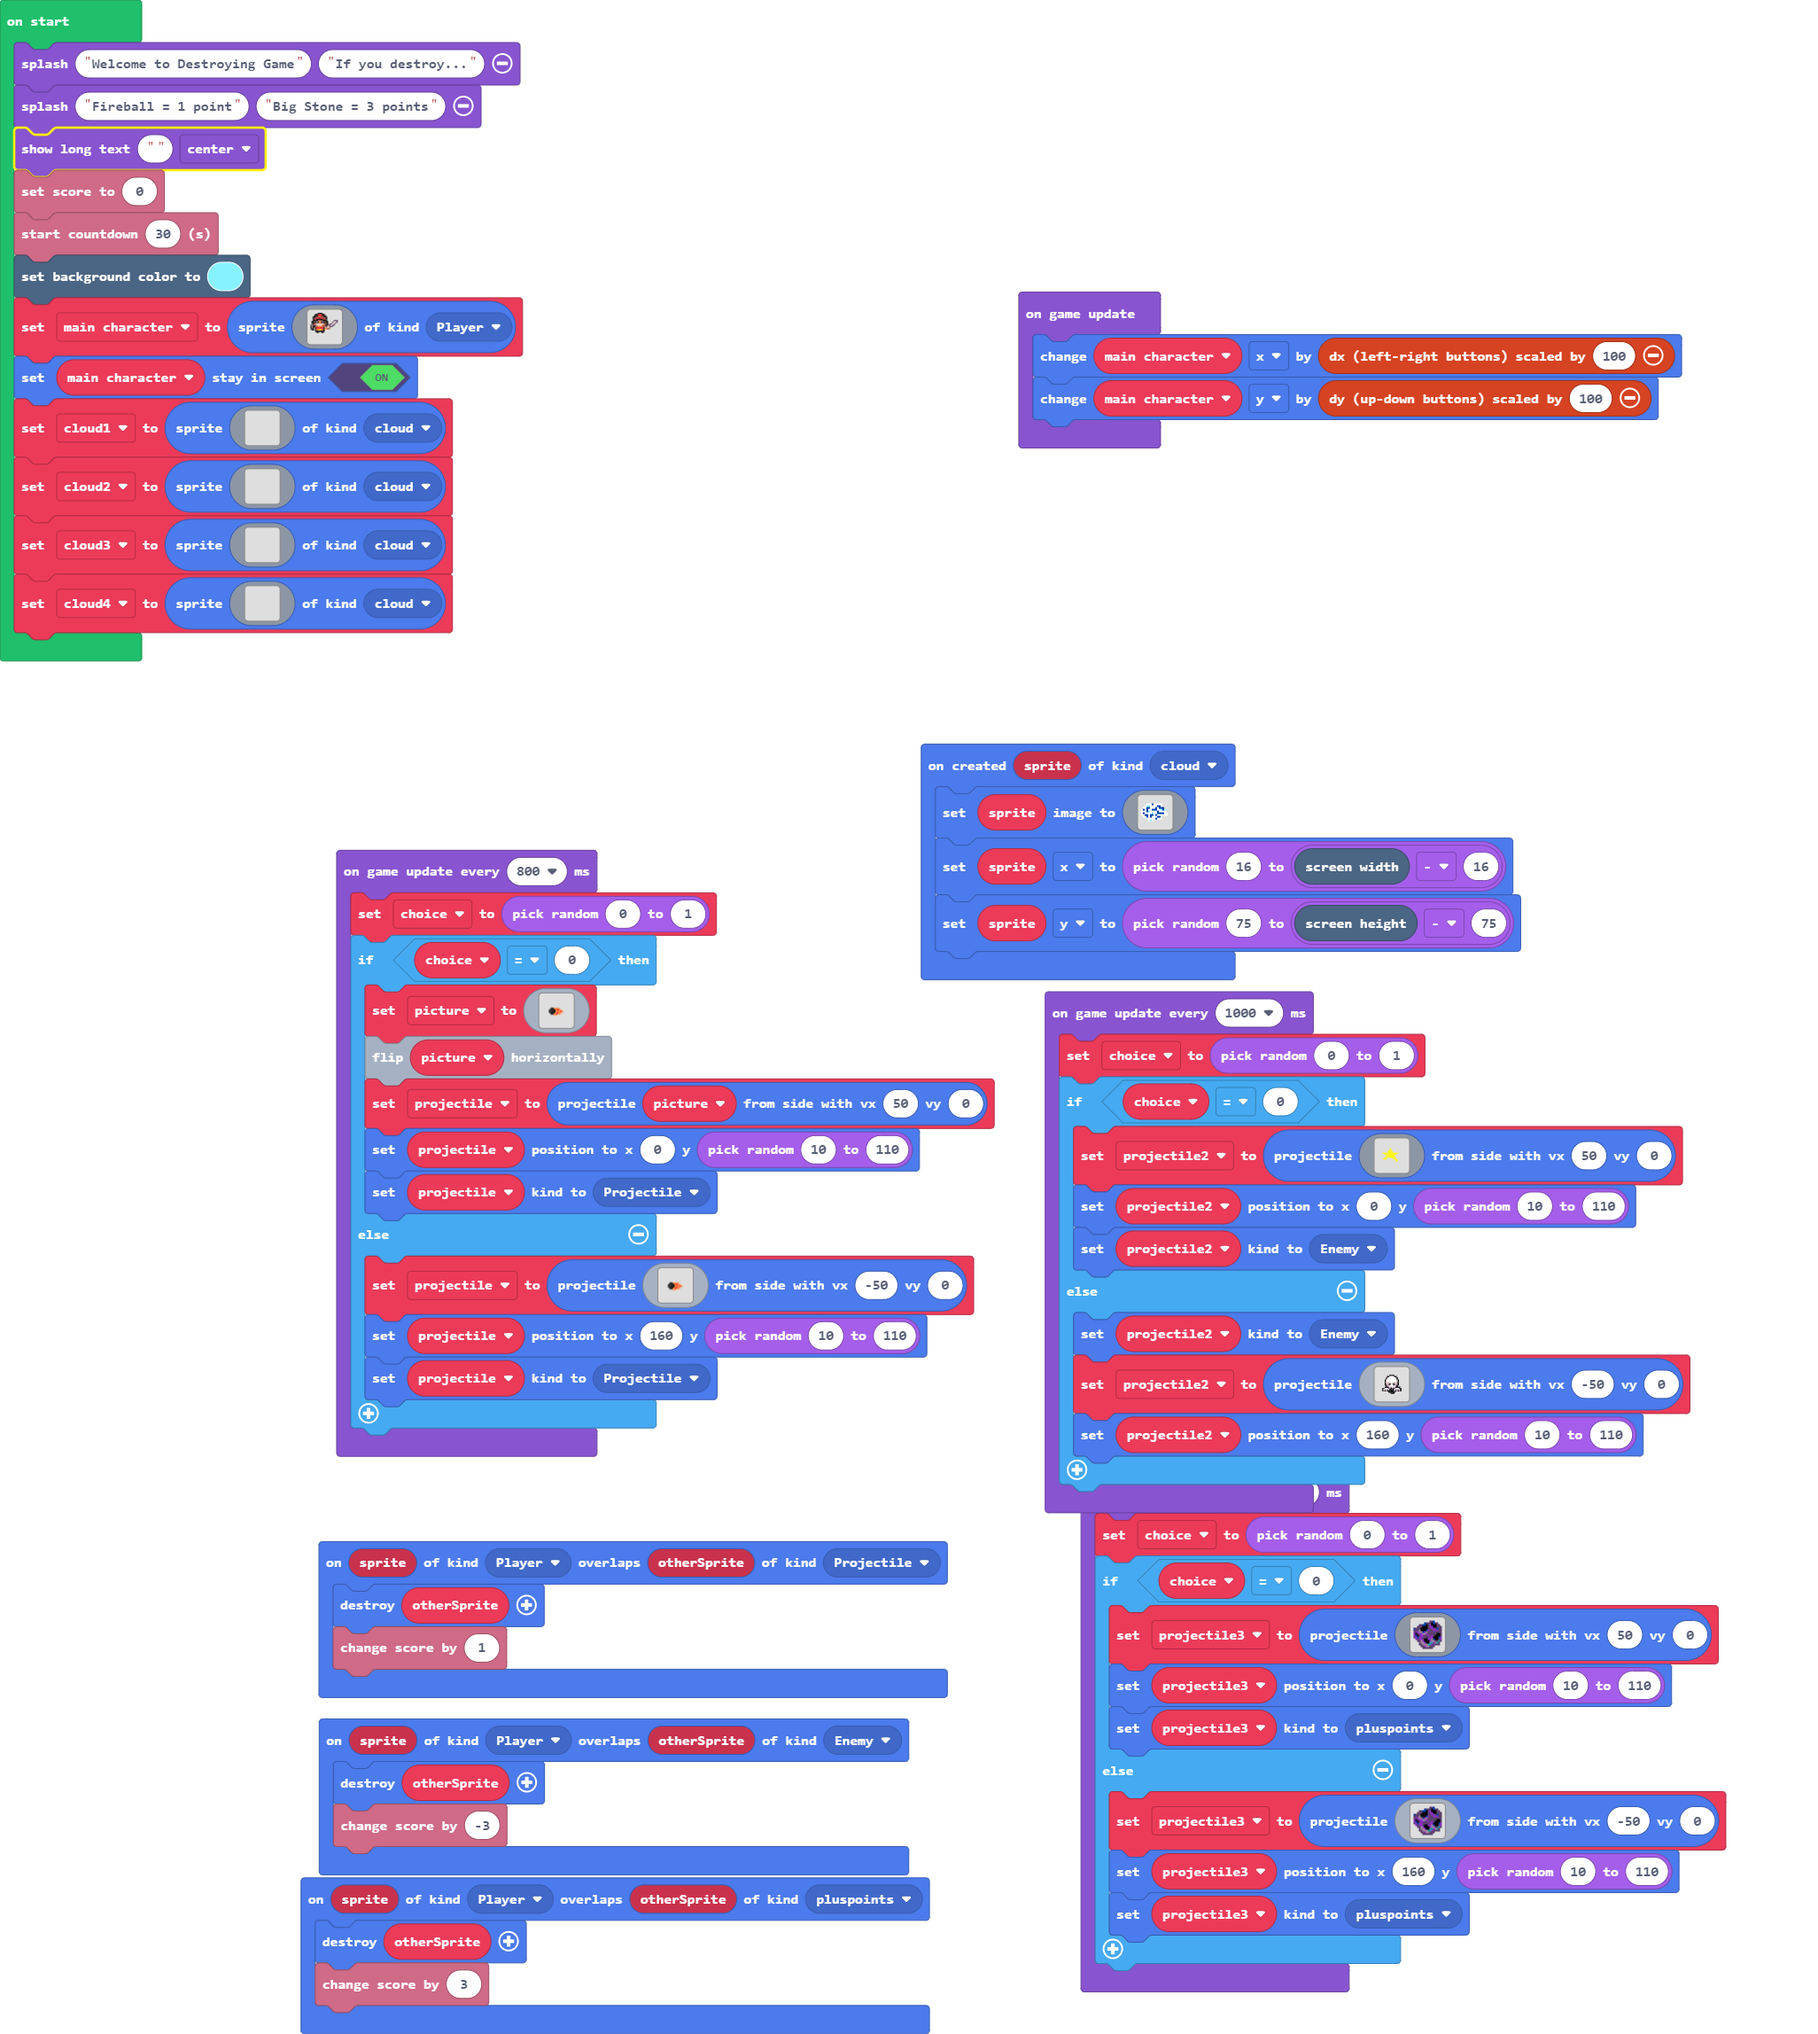
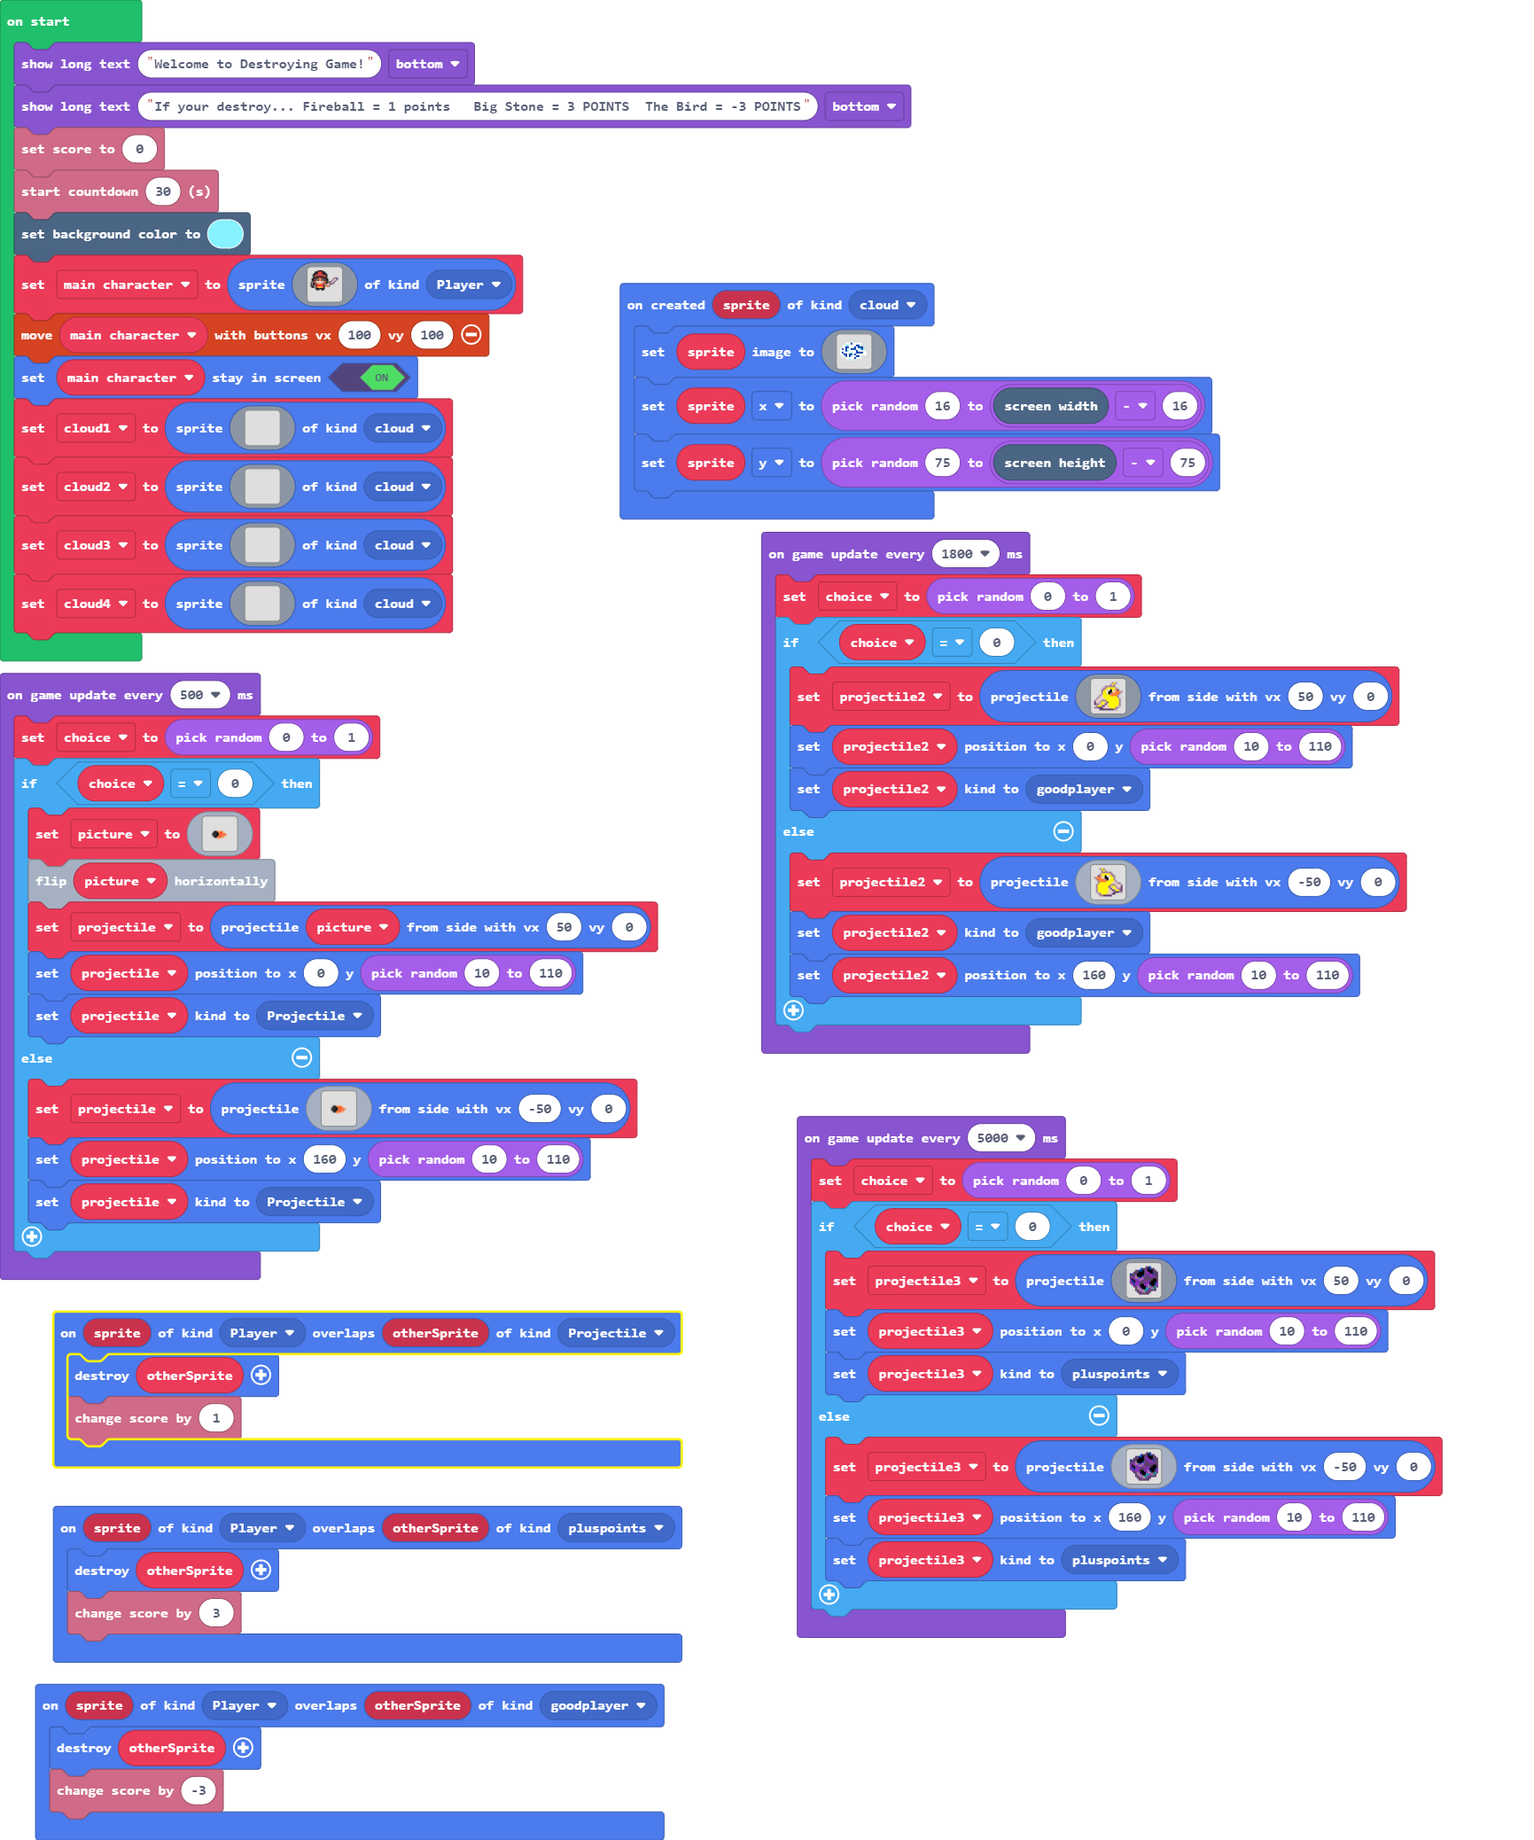
Final Touches

diff --git a/main.ts b/main.ts
@@ -5,7 +5,12 @@ namespace SpriteKind {
     export const bird = SpriteKind.create()
     export const dead = SpriteKind.create()
     export const pluspoints = SpriteKind.create()
+    export const goodplayer = SpriteKind.create()
 }
+sprites.onOverlap(SpriteKind.Player, SpriteKind.goodplayer, function (sprite, otherSprite) {
+    otherSprite.destroy()
+    info.changeScoreBy(-3)
+})
 sprites.onOverlap(SpriteKind.Player, SpriteKind.Projectile, function (sprite, otherSprite) {
     otherSprite.destroy()
     info.changeScoreBy(1)
@@ -36,18 +41,13 @@ sprites.onOverlap(SpriteKind.Player, SpriteKind.pluspoints, function (sprite, ot
     otherSprite.destroy()
     info.changeScoreBy(3)
 })
-sprites.onOverlap(SpriteKind.Player, SpriteKind.Enemy, function (sprite, otherSprite) {
-    otherSprite.destroy()
-    info.changeScoreBy(-3)
-})
 let projectile: Sprite = null
 let picture: Image = null
 let projectile2: Sprite = null
 let projectile3: Sprite = null
 let choice = 0
-game.splash("Welcome to Destroying Game", "If you destroy...")
-game.splash("Fireball = 1 point", "Big Stone = 3 points")
-game.showLongText("", DialogLayout.Center)
+game.showLongText("Welcome to Destroying Game!", DialogLayout.Bottom)
+game.showLongText("If your destroy... Fireball = 1 points   Big Stone = 3 POINTS  The Bird = -3 POINTS", DialogLayout.Bottom)
 info.setScore(0)
 info.startCountdown(30)
 scene.setBackgroundColor(9)
@@ -77,6 +77,7 @@ let main_character = sprites.create(img`
     ........................
     ........................
     `, SpriteKind.Player)
+controller.moveSprite(main_character, 100, 100)
 main_character.setStayInScreen(true)
 let cloud1 = sprites.create(img`
     . . . . . . . . . . . . . . . . 
@@ -150,10 +151,6 @@ let cloud4 = sprites.create(img`
     . . . . . . . . . . . . . . . . 
     . . . . . . . . . . . . . . . . 
     `, SpriteKind.cloud)
-game.onUpdate(function () {
-    main_character.x += controller.dx(100)
-    main_character.y += controller.dy(100)
-})
 game.onUpdateInterval(5000, function () {
     choice = randint(0, 1)
     if (choice == 0) {
@@ -200,75 +197,53 @@ game.onUpdateInterval(5000, function () {
         projectile3.setKind(SpriteKind.pluspoints)
     }
 })
-game.onUpdateInterval(1000, function () {
+game.onUpdateInterval(1800, function () {
     choice = randint(0, 1)
     if (choice == 0) {
         projectile2 = sprites.createProjectileFromSide(img`
-            ..............................
-            ..............................
-            ..............................
-            ..............................
-            ..............................
-            ..............................
-            ..............................
-            .............5................
-            .............55...............
-            ............555...............
-            ...........55555..............
-            ...........55555..............
-            .....55555555555555555........
-            .......5555555555555..........
-            .........555555555............
-            .........555555555............
-            ........55555555555...........
-            .......555.....5555...........
-            ......555........555..........
-            ...................55.........
-            ...................55.........
-            ..............................
-            ..............................
-            ..............................
-            ..............................
-            ..............................
-            ..............................
-            ..............................
-            ..............................
-            ..............................
+            . . . . . . . . . . b 5 b . . . 
+            . . . . . . . . . b 5 b . . . . 
+            . . . . . . b b b b b b . . . . 
+            . . . . . b b 5 5 5 5 5 b . . . 
+            . . . . b b 5 d 1 f 5 d 4 c . . 
+            . . . . b 5 5 1 f f d d 4 4 4 b 
+            . . . . b 5 5 d f b 4 4 4 4 b . 
+            . . . b d 5 5 5 5 4 4 4 4 b . . 
+            . . b d d 5 5 5 5 5 5 5 5 b . . 
+            . b d d d d 5 5 5 5 5 5 5 5 b . 
+            b d d d b b b 5 5 5 5 5 5 5 b . 
+            c d d b 5 5 d c 5 5 5 5 5 5 b . 
+            c b b d 5 d c d 5 5 5 5 5 5 b . 
+            . b 5 5 b c d d 5 5 5 5 5 d b . 
+            b b c c c d d d d 5 5 5 b b . . 
+            . . . c c c c c c c c b b . . . 
             `, 50, 0)
         projectile2.setPosition(0, randint(10, 110))
-        projectile2.setKind(SpriteKind.Enemy)
+        projectile2.setKind(SpriteKind.goodplayer)
     } else {
-        projectile2.setKind(SpriteKind.Enemy)
         projectile2 = sprites.createProjectileFromSide(img`
-            ........................
-            ........................
-            ........................
-            ........................
-            ..........ffff..........
-            ........ff1111ff........
-            .......fb111111bf.......
-            .......f11111111f.......
-            ......fd11111111df......
-            ......fd11111111df......
-            ......fddd1111dddf......
-            ......fbdbfddfbdbf......
-            ......fcdcf11fcdcf......
-            .......fb111111bf.......
-            ......fffcdb1bdffff.....
-            ....fc111cbfbfc111cf....
-            ....f1b1b1ffff1b1b1f....
-            ....fbfbffffffbfbfbf....
-            .........ffffff.........
-            ...........fff..........
-            ........................
-            ........................
-            ........................
-            ........................
+            . . . b 5 b . . . . . . . . . . 
+            . . . . b 5 b . . . . . . . . . 
+            . . . . b b b b b b . . . . . . 
+            . . . b 5 5 5 5 5 b b . . . . . 
+            . . c 4 d 5 f 1 d 5 b b . . . . 
+            b 4 4 4 d d f f 1 5 5 b . . . . 
+            . b 4 4 4 4 b f d 5 5 b . . . . 
+            . . b 4 4 4 4 5 5 5 5 d b . . . 
+            . . b 5 5 5 5 5 5 5 d d d b b . 
+            . b 5 5 5 5 5 5 5 b b b d d d b 
+            . b 5 5 5 5 5 5 c d 5 5 b d d c 
+            . b 5 5 5 5 5 5 d c d 5 d b b c 
+            . b 5 5 5 5 5 5 d d c b 5 5 b c 
+            . b d 5 5 5 5 5 d d d c c c b b 
+            . . b b 5 5 5 d d d c c . . . . 
+            . . . b b c c c c c . . . . . . 
             `, -50, 0)
+        projectile2.setKind(SpriteKind.goodplayer)
         projectile2.setPosition(160, randint(10, 110))
     }
 })
-game.onUpdateInterval(800, function () {
+game.onUpdateInterval(500, function () {
     choice = randint(0, 1)
     if (choice == 0) {
         picture = assets.image`fireball2`
